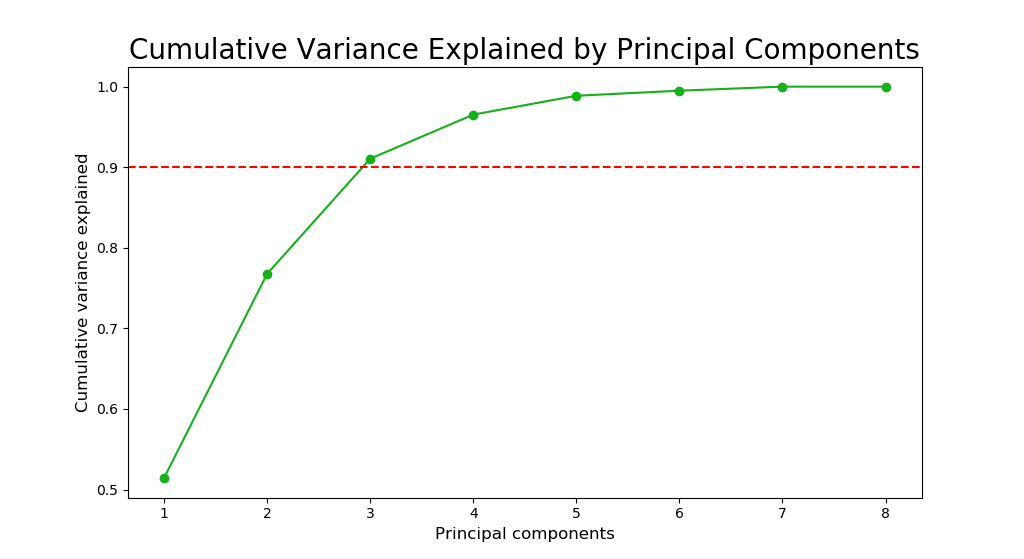
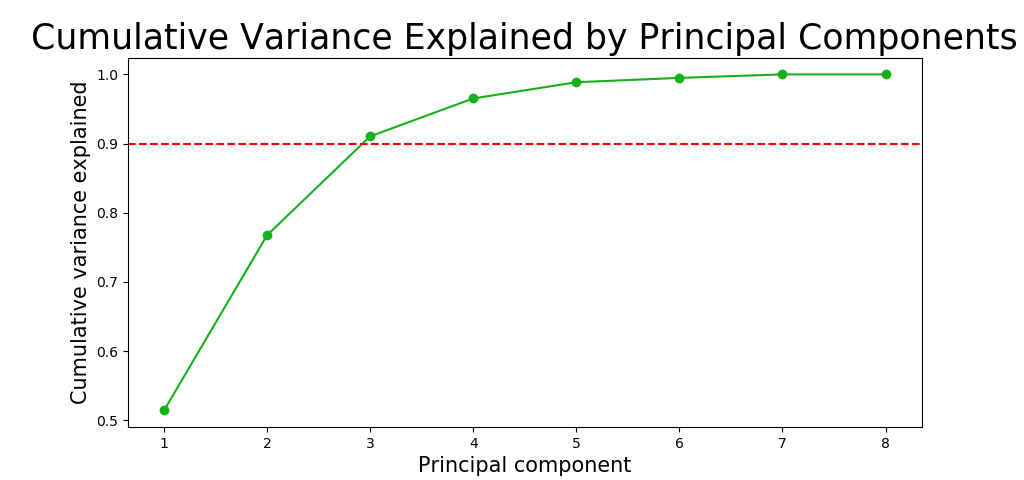
fixed font discrepancies

diff --git a/src/project1_pca.py b/src/project1_pca.py
@@ -26,17 +26,17 @@ print('With {0:d} PCAs you have {1:.2f}% of the information'.format(pca_index_90
 fig = figure()
 ax1 = fig.add_subplot(111)
 ax1.plot(range(1, len(rho)+1), rho, 'o-')
-ax1.set_title('Variance Explained by Principal Components', fontsize = 20)
-ax1.set_xlabel('Principal components', fontsize = 12)
-ax1.set_ylabel('Variance explained', fontsize = 12)
+ax1.set_title('Variance Explained by Principal Components', fontsize = 25)
+ax1.set_xlabel('Principal components', fontsize = 15)
+ax1.set_ylabel('Variance explained', fontsize = 15)
 
 fig2 = figure()
 ax2 = fig2.add_subplot(111)
 ax2.plot(range(1, len(cum_rho)+1), cum_rho, 'o-')
 ax2.axhline(y=0.9, color='r', linestyle='--')
-ax2.set_title('Cumulative Variance Explained by Principal Components', fontsize = 20)
-ax2.set_xlabel('Principal component', fontsize = 12)
-ax2.set_ylabel('Cumulative variance explained', fontsize = 12)
+ax2.set_title('Cumulative Variance Explained by Principal Components', fontsize = 25)
+ax2.set_xlabel('Principal component', fontsize = 15)
+ax2.set_ylabel('Cumulative variance explained', fontsize = 15)
 show()
 
 
